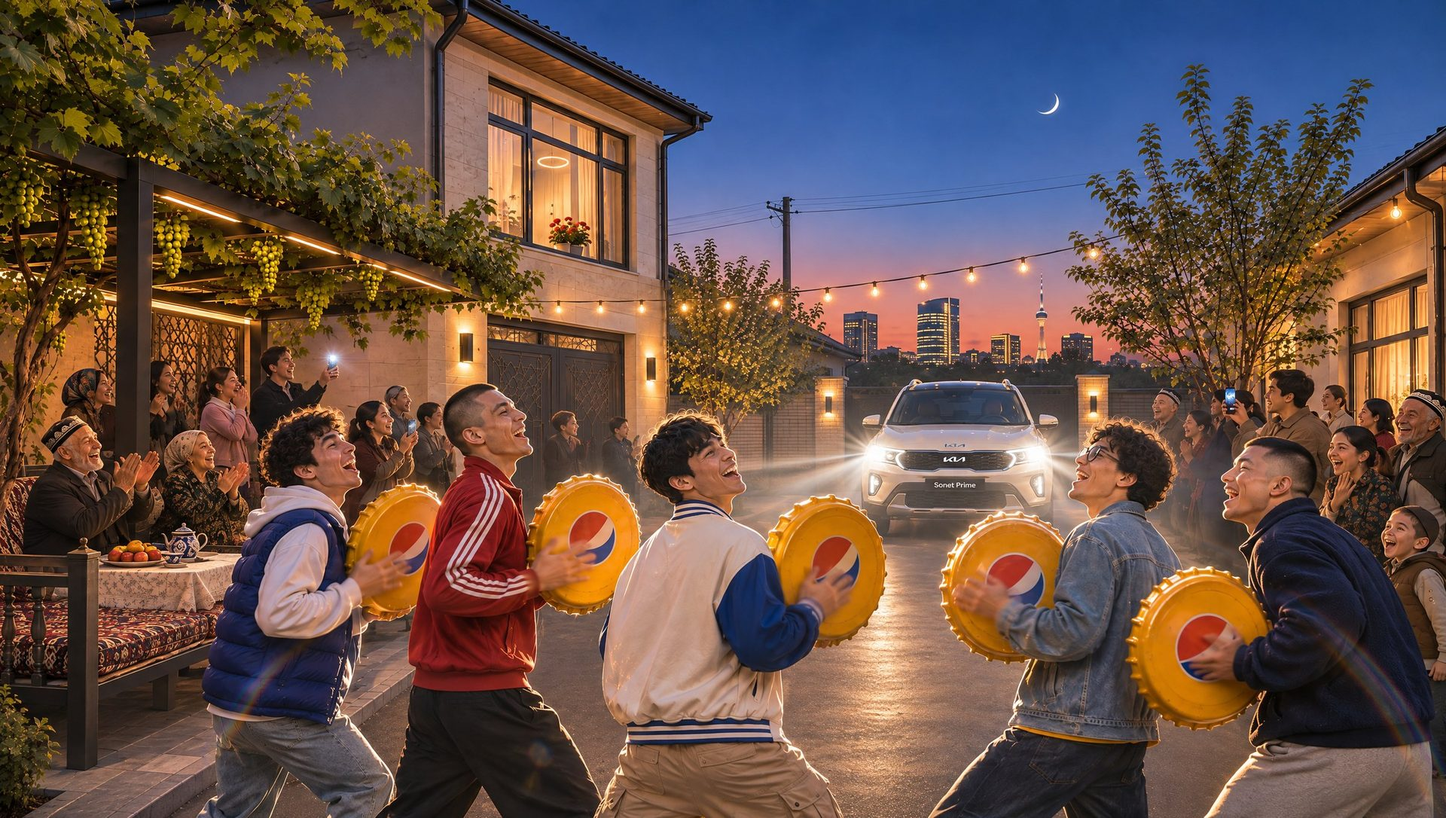
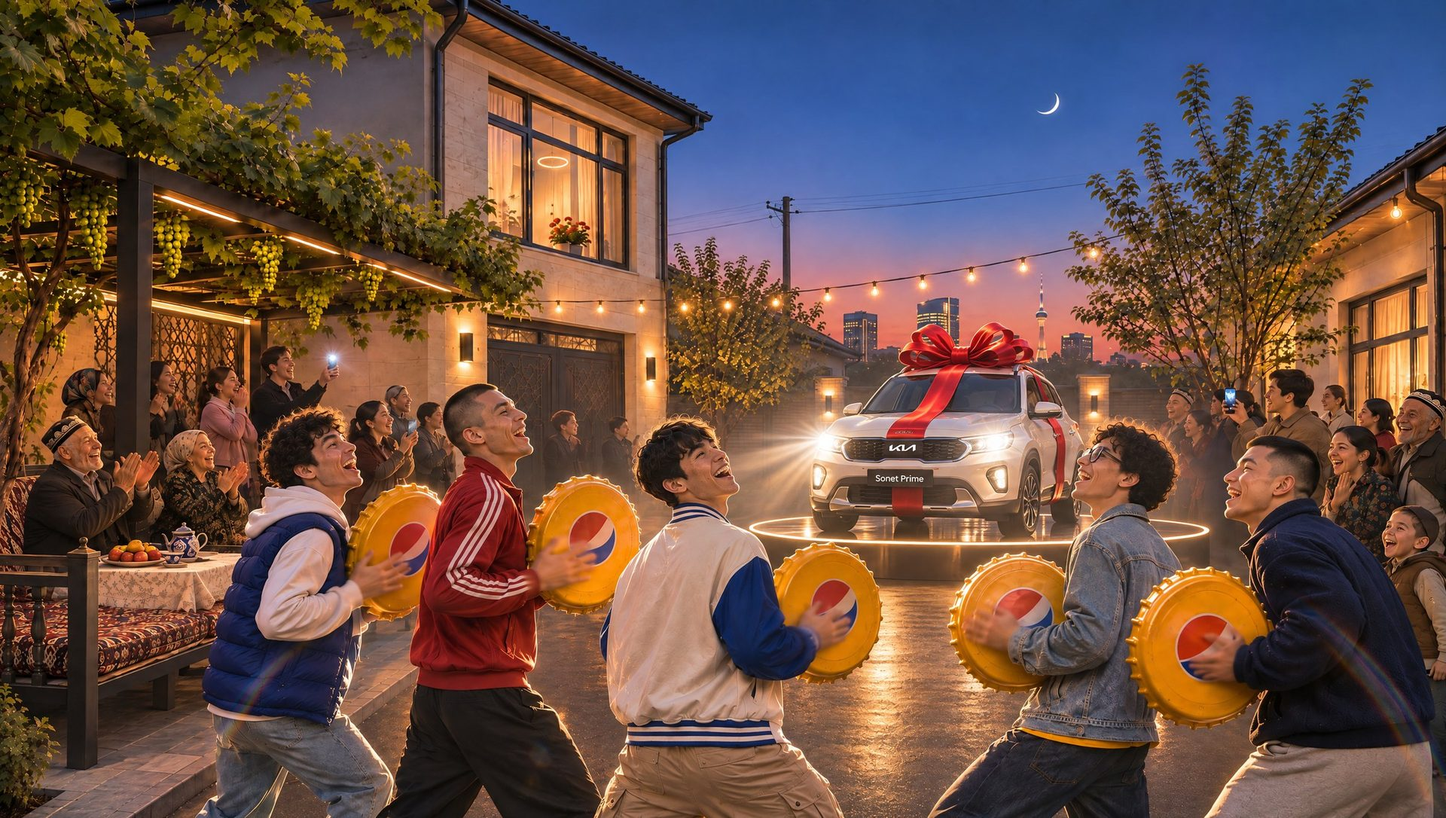
V3: drop four slides, Kia on a podium with a bow
Claude-Session: https://claude.ai/code/session_01EvTCm4nphBi3UivqpcNxnB

diff --git a/pepsi-ramazon/v3/index.html b/pepsi-ramazon/v3/index.html
@@ -372,57 +372,12 @@ section.night { background: #0A1230; }
 <aside>Обложка: песня, которая выводит на улицу всю махаллю. Дойра-крышка влетает монеткой.</aside>
 </section>
 
-<section id="idea" class="night" data-transition="magic" style="display:flex; flex-direction:column; justify-content:center">
-<img decoding="async" class="fan" style="left:1000px; top:150px; --i:0; --t:perspective(1800px) rotateY(-24deg) rotateZ(-2deg)" src="../img/v3_v3_iftar.jpg" alt="Семейный ифтар"><p class="fanl" style="left:960px; top:170px; --i:0"><span>01 · Дом</span></p><img decoding="async" class="fan" style="left:1110px; top:380px; --i:1; --t:perspective(1800px) rotateY(-24deg) rotateZ(1deg)" src="../img/v3_v3_door.jpg" alt="Хозяин у двери, ребята с дойрами"><p class="fanl" style="left:1070px; top:400px; --i:1"><span>02 · Дверь</span></p><img decoding="async" class="fan" style="left:1220px; top:610px; --i:2; --t:perspective(1800px) rotateY(-24deg) rotateZ(-1deg)" src="../img/v3_v3_yard.jpg" alt="Вся махалля во дворе"><p class="fanl" style="left:1180px; top:630px; --i:2"><span>03 · Махалля</span></p>
-<div style="width:760px">
-<p class="eyebrow rise" style="--i:0">Идея</p>
-<div class="mask"><h2 class="up" style="--i:1">ОДНА ДВЕРЬ —<br>ВСЯ МАХАЛЛЯ</h2></div>
-<p class="rise" style="--i:2; margin-top:28px; font-size:30px; color:#E6EAF7">Обычный семейный ифтар. За дверью — песня. Одна просьба: «Pepsi давай!» — и праздник выходит из дома на всю улицу.</p>
-<p class="rise" style="--i:3; margin-top:24px; font-size:30px; color:#E6EAF7">Ролик растёт как снежный ком: семья → ребята → соседи → вся махалля.</p>
-</div>
-<aside>Главная мысль: Pepsi объединяет не одну семью, а целую махаллю. Масштаб растёт от стола к улице.</aside>
-</section>
-
-<section id="camera" class="night" data-transition="fade">
-<img decoding="async" class="rise" style="position:absolute; left:676px; top:262px; width:1180px; height:664px; object-fit:cover; border-radius:18px; --i:1" src="../img/v3_v3_diorama.jpg" alt="Миниатюра махалли: все события ролика происходят одновременно">
-<svg aria-label="Маршрут камеры одним дублем по махалле: дверь, барабаны, окно, QR-код, призы, подарок соседке, фары Kia, хозяин выносит Pepsi, стол во дворе" style="position:absolute; left:0; top:0; width:1920px; height:1080px" width="1920" height="1080" viewBox="0 0 1920 1080" xmlns="http://www.w3.org/2000/svg"><path d="M1084 578 C1123 599 1315 734 1317 705 C1319 677 1168 397 1097 407 C1027 417 872 699 895 767 C919 835 1138 853 1238 815 C1338 777 1415 551 1497 539 C1579 526 1779 724 1730 740 C1681 757 1269 675 1203 640 C1137 604 1313 544 1334 525" fill="none" stroke="#0A1230" stroke-opacity=".55" stroke-width="14" stroke-linecap="round"/><path class="trace" pathLength="1" d="M1084 578 C1123 599 1315 734 1317 705 C1319 677 1168 397 1097 407 C1027 417 872 699 895 767 C919 835 1138 853 1238 815 C1338 777 1415 551 1497 539 C1579 526 1779 724 1730 740 C1681 757 1269 675 1203 640 C1137 604 1313 544 1334 525" fill="none" stroke="#FFC62E" stroke-width="6" stroke-linecap="round"/><g class="pin" style="--i:0"><circle cx="1084" cy="578" r="24" fill="#0A1230" stroke="#FFC62E" stroke-width="4"/><text x="1084" y="587" text-anchor="middle" font-family="Unbounded, Verdana, sans-serif" font-size="24" font-weight="800" fill="#FFC62E">1</text></g><g class="pin" style="--i:1"><circle cx="1317" cy="705" r="24" fill="#0A1230" stroke="#FFC62E" stroke-width="4"/><text x="1317" y="714" text-anchor="middle" font-family="Unbounded, Verdana, sans-serif" font-size="24" font-weight="800" fill="#FFC62E">2</text></g><g class="pin" style="--i:2"><circle cx="1097" cy="407" r="24" fill="#0A1230" stroke="#FFC62E" stroke-width="4"/><text x="1097" y="416" text-anchor="middle" font-family="Unbounded, Verdana, sans-serif" font-size="24" font-weight="800" fill="#FFC62E">3</text></g><g class="pin" style="--i:3"><circle cx="895" cy="767" r="24" fill="#0A1230" stroke="#FFC62E" stroke-width="4"/><text x="895" y="776" text-anchor="middle" font-family="Unbounded, Verdana, sans-serif" font-size="24" font-weight="800" fill="#FFC62E">4</text></g><g class="pin" style="--i:4"><circle cx="1238" cy="815" r="24" fill="#0A1230" stroke="#FFC62E" stroke-width="4"/><text x="1238" y="824" text-anchor="middle" font-family="Unbounded, Verdana, sans-serif" font-size="24" font-weight="800" fill="#FFC62E">5</text></g><g class="pin" style="--i:5"><circle cx="1497" cy="539" r="24" fill="#0A1230" stroke="#FFC62E" stroke-width="4"/><text x="1497" y="548" text-anchor="middle" font-family="Unbounded, Verdana, sans-serif" font-size="24" font-weight="800" fill="#FFC62E">6</text></g><g class="pin" style="--i:6"><circle cx="1730" cy="740" r="24" fill="#0A1230" stroke="#FFC62E" stroke-width="4"/><text x="1730" y="749" text-anchor="middle" font-family="Unbounded, Verdana, sans-serif" font-size="24" font-weight="800" fill="#FFC62E">7</text></g><g class="pin" style="--i:7"><circle cx="1203" cy="640" r="24" fill="#0A1230" stroke="#FFC62E" stroke-width="4"/><text x="1203" y="649" text-anchor="middle" font-family="Unbounded, Verdana, sans-serif" font-size="24" font-weight="800" fill="#FFC62E">8</text></g><g class="pin" style="--i:8"><circle cx="1334" cy="525" r="24" fill="#0A1230" stroke="#FFC62E" stroke-width="4"/><text x="1334" y="534" text-anchor="middle" font-family="Unbounded, Verdana, sans-serif" font-size="24" font-weight="800" fill="#FFC62E">9</text></g><circle r="16" fill="#FF5A4E" stroke="#FBFBF8" stroke-width="4"><animateMotion dur="9s" begin="0s" fill="freeze" path="M1084 578 C1123 599 1315 734 1317 705 C1319 677 1168 397 1097 407 C1027 417 872 699 895 767 C919 835 1138 853 1238 815 C1338 777 1415 551 1497 539 C1579 526 1779 724 1730 740 C1681 757 1269 675 1203 640 C1137 604 1313 544 1334 525"/></circle></svg>
-<p class="eyebrow rise" style="--i:0">Как снимаем улицу</p>
-<div class="mask"><h2 class="up" style="--i:1">КОНТРОЛИРУЕМЫЙ КИПИШ</h2></div>
-<div style="width:500px; margin-top:12px">
-<p class="rise" style="--i:2; font-size:26px; color:#E6EAF7">Камера не ставит сцены по очереди. Она идёт сквозь движуху одним дублем: через одно событие видит другое и делает на нём акцент, а вокруг параллельно живёт вся махалля.</p>
-<div class="legend rise" style="--i:3"><p><b>1</b>Дверь: «Не, Pepsi давай!»</p><p><b>2</b>Барабаны-банки на площадке</p><p><b>3</b>Окно, калитка, код под крышкой</p><p><b>4</b>QR-код, объятия, фонарь</p><p><b>5</b>Код в Paynet и выигрыши</p><p><b>6</b>Подарок пожилой соседке</p><p><b>7</b>Фары Kia Sonet Prime</p><p><b>8</b>Хозяин выносит Pepsi</p><p><b>9</b>Стол во дворе — финал</p></div>
-</div>
-<aside>Принцип заказчика: «ощущение контролируемого кипиша». Все заняты одним, камера вылавливает нужные по сценарию моменты. Красная точка — путь камеры.</aside>
-</section>
-
-<section id="board" class="cream" data-transition="fade" style="background:#F3EBDD">
-<p class="eyebrow rise" style="--i:0">Раскадровка</p>
-<div class="mask"><h2 class="up" style="--i:1">ОДИН ПРОХОД КАМЕРЫ</h2></div>
-<p class="rise" style="--i:2; margin-top:12px; font-size:28px; width:1500px">От двери — через барабаны, соседей и призы — к столу во дворе. Фон никогда не пустой: в каждом кадре идут ещё два-три события.</p>
-<img decoding="async" class="rise" style="width:1664px; height:478px; object-fit:cover; margin-top:36px; border-radius:8px; --i:3" src="../img/v3_v3_board.jpg" alt="Рисованная раскадровка из шести кадров уличного пролёта">
-<div style="display:grid; grid-template-columns:repeat(6, 1fr); gap:12px; margin-top:12px"><p class="hand rise" style="--i:3; font-size:40px; color:#0A1230">1. Дверь</p><p class="hand rise" style="--i:4; font-size:40px; color:#0A1230">2. Барабаны</p><p class="hand rise" style="--i:5; font-size:40px; color:#0A1230">3. Код под крышкой</p><p class="hand rise" style="--i:6; font-size:40px; color:#0A1230">4. QR и объятия</p><p class="hand rise" style="--i:7; font-size:40px; color:#0A1230">5. Призы и фары</p><p class="hand rise" style="--i:8; font-size:40px; color:#0A1230">6. Стол во дворе</p></div>
-<aside>Шесть узловых точек одного пролёта. Красные стрелки — движение камеры.</aside>
-</section>
-
 <section id="crew" class="night" data-transition="fade">
 <p class="eyebrow rise" style="--i:0">Герои</p>
 <div class="mask"><h2 class="up" style="--i:1">РЕБЯТА С ДОЙРАМИ</h2></div>
 <p class="rise" style="--i:2; margin-top:12px; font-size:28px; width:1500px; color:#E6EAF7">До 20 лет. Повседневная, но яркая одежда в цветах Pepsi — синий, белый, красный и капля жёлтого. Не сцена и не костюмы: видно, что это главные герои, но они свои, с этой улицы.</p>
 <div class="pols"><div class="pol" style="--i:0; --r:-2.5deg"><img decoding="async" src="../img/v3_v3_p1.jpg" alt="Участник бэнда: Заводила"><p class="pr">Заводила</p><p class="pd">Синяя жилетка, белое худи</p></div><div class="pol" style="--i:1; --r:1.8deg"><img decoding="async" src="../img/v3_v3_p2.jpg" alt="Участник бэнда: Большой барабан"><p class="pr">Большой барабан</p><p class="pd">Красная олимпийка</p></div><div class="pol" style="--i:2; --r:-1.2deg"><img decoding="async" src="../img/v3_v3_p3.jpg" alt="Участник бэнда: Дойра"><p class="pr">Дойра</p><p class="pd">Белый бомбер с синими рукавами</p></div><div class="pol" style="--i:3; --r:2.4deg"><img decoding="async" src="../img/v3_v3_p4.jpg" alt="Участник бэнда: Дойра"><p class="pr">Дойра</p><p class="pd">Джинсовка и жёлтая футболка</p></div><div class="pol" style="--i:4; --r:-1.8deg"><img decoding="async" src="../img/v3_v3_p5.jpg" alt="Участник бэнда: Дойра"><p class="pr">Дойра</p><p class="pd">Тёмно-синий флис</p></div></div>
 <aside>Пятеро ребят. Заводила — тот, кто говорит «Не, Pepsi давай!». У всех дойры в форме жёлтых крышек.</aside>
-</section>
-
-<section id="neigh" class="night" data-transition="fade">
-<p class="eyebrow rise" style="--i:0">Махалля</p>
-<div class="mask"><h2 class="up" style="--i:1">СОСЕДИ — АРАЛАШ</h2></div>
-<div style="display:flex; gap:48px; margin-top:36px; align-items:flex-start">
-<img decoding="async" class="rise" style="width:980px; height:551px; object-fit:cover; border-radius:16px; --i:2" src="../img/v3_v3_neigh.jpg" alt="Соседи махалли всех возрастов у крашеной калитки">
-<div style="width:636px; display:flex; flex-direction:column; gap:14px">
-<p class="rise" style="--i:2; font-size:26px; color:#E6EAF7; margin-bottom:8px">Все возрасты вперемешку, обычная домашняя одежда. Никакой массовки в линию — живые люди, которые вышли на песню.</p>
-<div class="rise" style="--i:2; display:flex; gap:20px; align-items:baseline"><p class="label" style="width:300px; font-size:24px">Хозяин дома</p><p style="font-size:24px; color:#E6EAF7">лет 35–40, открывает дверь</p></div><div class="rise" style="--i:3; display:flex; gap:20px; align-items:baseline"><p class="label" style="width:300px; font-size:24px">Семья</p><p style="font-size:24px; color:#E6EAF7">бабушка, дедушка, жена, дети</p></div><div class="rise" style="--i:4; display:flex; gap:20px; align-items:baseline"><p class="label" style="width:300px; font-size:24px">Сосед с крышкой</p><p style="font-size:24px; color:#E6EAF7">первым находит код</p></div><div class="rise" style="--i:5; display:flex; gap:20px; align-items:baseline"><p class="label" style="width:300px; font-size:24px">Друг</p><p style="font-size:24px; color:#E6EAF7">получает крышку и выигрыш 100 000</p></div><div class="rise" style="--i:6; display:flex; gap:20px; align-items:baseline"><p class="label" style="width:300px; font-size:24px">Девушка с QR</p><p style="font-size:24px; color:#E6EAF7">сканирует этикетку</p></div><div class="rise" style="--i:7; display:flex; gap:20px; align-items:baseline"><p class="label" style="width:300px; font-size:24px">Девушка с бутылками</p><p style="font-size:24px; color:#E6EAF7">дарит Pepsi соседке</p></div><div class="rise" style="--i:8; display:flex; gap:20px; align-items:baseline"><p class="label" style="width:300px; font-size:24px">Пожилая соседка</p><p style="font-size:24px; color:#E6EAF7">принимает подарок</p></div>
-</div>
-</div>
-<aside>Аралаш: от детей до бабушек. Ключевые роли по сценарию — справа.</aside>
 </section>
 
 <section id="props" class="night" data-transition="fade">
@@ -578,15 +533,15 @@ section.night { background: #0A1230; }
 </section>
 
 <section id="s4c" class="scene" data-transition="fade">
-<img decoding="async" class="bg kb" src="../img/v3_v3_kia.jpg" alt="За спинами ребят загораются фары Kia Sonet Prime, соседи оборачиваются на свет">
+<img decoding="async" class="bg kb" src="../img/v3_v3_kia.jpg" alt="За спинами ребят на подиуме с красным бантом загораются фары Kia Sonet Prime — главный приз; соседи оборачиваются на свет">
 <div class="scrim-b scrim-band" style="top:560px; height:520px"></div>
 <img decoding="async" class="grain" src="../img/v3_v3_grain.jpg" alt="">
-<div class="flare" style="left:985px; top:420px"></div><div class="flare" style="left:1180px; top:420px"></div><div class="streak" style="left:512px; top:598px"></div>
+<div class="flare" style="left:921px; top:399px"></div><div class="flare" style="left:1145px; top:399px"></div><div class="streak" style="left:463px; top:577px"></div>
 <p class="hud rise" style="--i:0; left:1272px; text-align:right"><b>●</b> REC · один дубль</p>
 <div class="cols"><div class="lc"><p class="eyebrow rise" style="--i:0">Сцена 04</p><div class="mask"><h2 class="up md" style="--i:1">ПРИЗЫ</h2></div><p class="lyric rise" style="--i:2; margin-top:16px">Kia Sonet Prime ham bor,<br>Sakkizta mashina bor!</p></div><div class="rc"><p class="desc sm rise" style="--i:3; color:#E6EAF7;">За спинами ребят загораются фары Kia Sonet Prime. Машина стоит у края площадки. Соседи оборачиваются на свет.</p></div></div>
 <div class="tl t5"><p>01 Ифтар</p><p>02 У двери</p><p>03 Махалля</p><p class="on">04 Призы</p><p>05 Во дворе</p></div>
 <x-shape id="cap" kind="ellipse" class="capdot" style="left:1126px"></x-shape>
-<aside>Фары вспыхивают в бит. Машина — у края площадки, не на сцене.</aside>
+<aside>Фары вспыхивают в бит. Kia стоит у края площадки на подиуме с бантом — сразу читается как главный приз.</aside>
 </section>
 
 <section id="s5" class="scene tops" data-transition="fade">

diff --git a/pepsi-ramazon/index.html b/pepsi-ramazon/index.html
@@ -22,7 +22,7 @@ a.c img { width: 100%; aspect-ratio: 16/9; object-fit: cover; display: block }
 <div class="g">
 <a class="c" href="v1/"><img src="img/v1_up_cover_city.jpg" alt=""><div class="t"><b>Версия 1 — «Успеть к ифтару»</b><span>Экшен · 25 слайдов</span></div></a>
 <a class="c" href="v2/"><img src="img/v2_v2_doors.jpg" alt=""><div class="t"><b>Версия 2 — «Мюзикл»</b><span>Песня в кадре · 22 слайдов</span></div></a>
-<a class="c" href="v3/"><img src="img/v3_v3_cover.jpg" alt=""><div class="t"><b>Версия 3 — «Махалля»</b><span>Вся улица одним дублем · 24 слайдов</span></div></a>
+<a class="c" href="v3/"><img src="img/v3_v3_cover.jpg" alt=""><div class="t"><b>Версия 3 — «Махалля»</b><span>Вся улица одним дублем · 20 слайдов</span></div></a>
 </div>
 <p class="ft">Листать: стрелки, пробел, свайп или клик по краям. F — во весь экран, N — заметки режиссёра.</p>
 </body></html>
